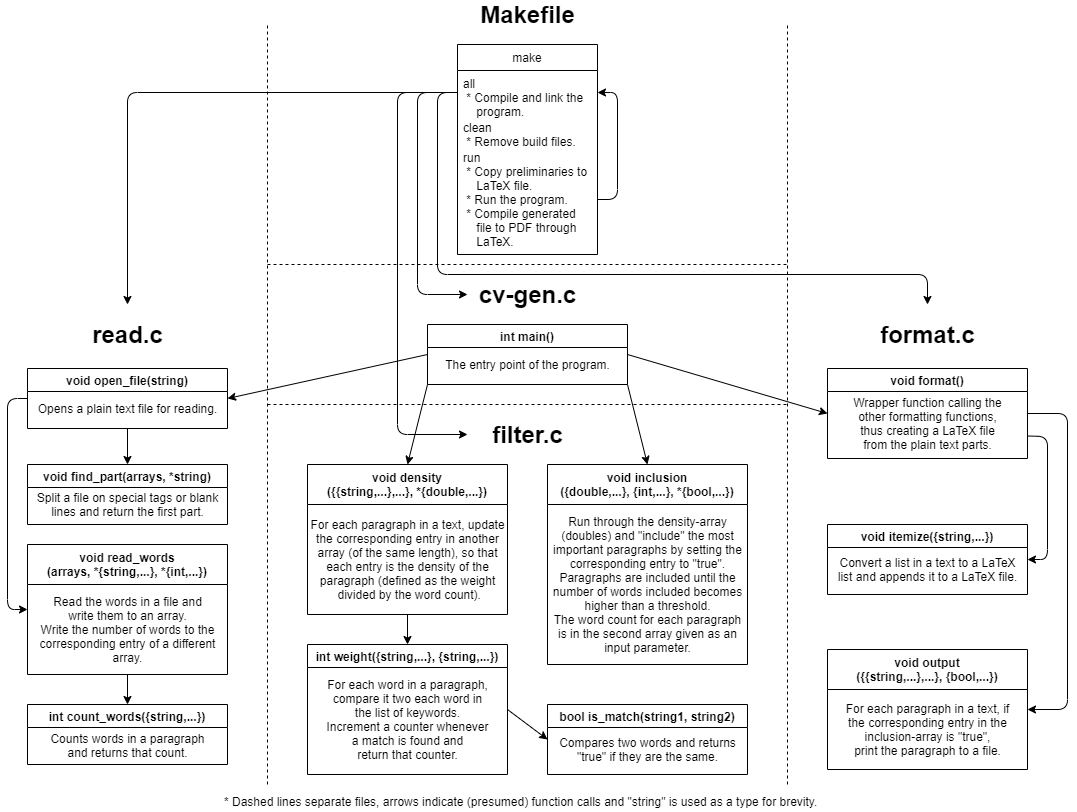
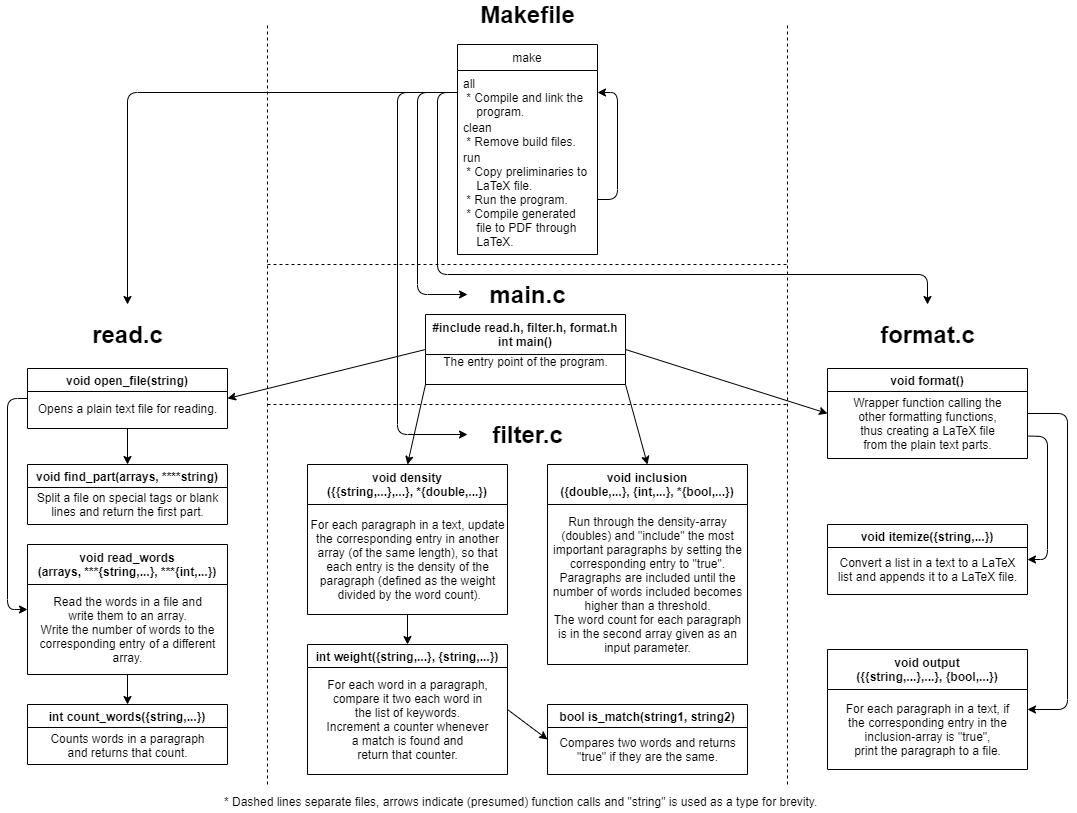
product development

diff --git a/docs/sections/product_development.tex b/docs/sections/product_development.tex
@@ -8,6 +8,7 @@ Here we discussed what are the most essential parts, and came to the conclusion 
 were needed: The Users skills/abilities and the information from the vacant job position. These things
 should be transformed into a custom application. 
 
+
 After further consideration, we had encountered a problem, that generating a custom CV from nothing but
 skills/abilities would create a very childlike, maybe even unreadable, application. This could be solved with a lot
 of data, and therefore a lot of time calibrating the process of automatically creating sentences. This may also result
@@ -32,7 +33,14 @@ and from the structural requirements creates a new CV.
 
 From here we decided to organize our MVP into a UML diagram, to make it more apparent
 what the essential functions were supposed to do, and which functions that were essential:
-\incfigure{figures/UML}{fig: UML}{UML 1.0}
+%\incfigure{figures/UML}{fig: UML}{UML}
+\begin{figure} 
+  \raggedright
+  \hspace*{-1in}
+  \includegraphics[scale = 0.50,left]{figures/UML}
+  \caption{UML}
+\end{figure}
+\newpage
 
 \subsection{Read.c}
 \subsection{Filter.c}
@@ -132,9 +140,9 @@ The overall structure of this functions ends up looking like the following:
 \incfigure{figures/is_word_match}{fig: Is word match}{Word Matching}
 
 The overall structure can be described as this:
-\begin{figure}[h]
+\begin{figure}[H]
   \centering
-  \includegraphics[height=3cm]{figures/is_match}
+  \includegraphics[scale = 0.6]{figures/is_match}
   \caption{Flow diagram of word matching}\label{fig:ie}
 \end{figure}
 
@@ -163,7 +171,7 @@ Printing the result from this, we can see:
 Thus it can easily be seen, which sections may be best suited for the job opening. 
 In this case, an example of a job opening specializing in software.
 
-To demonstrate that the functions work, it can be seen that both line 8 abd 9 gets printet with a result of exactly 1.
+To demonstrate that the functions work, it can be seen that both line 8 and 9 gets printet with a result of exactly 1.
 Even though one of the words match with 2, and the other, though misspelled, also matches with 2.
 
 \subsubsection{Included Sections and Generation}
@@ -196,7 +204,7 @@ This part isn't that interesting, but if you're interested, you can see it here:
 \subsection{Format.c}
 After the CV has been filtered then our next plan is to print the text to a latex format, and afterwords compile it to a pdf 
 
-\subsection{CV-Gen.c}
+\subsection{Main.c}
 \subsection{Makefile}
 
 \subsection{TKOP-model}

diff --git a/docs/sections/experiment_method.tex b/docs/sections/experiment_method.tex
@@ -9,25 +9,29 @@ In order to do this, we have devised the following experiment:
 In the experiment we will create a long CV where all the original information
 is in. We do this to ensure that there is no extra information in the human 
 rewritten CV that our program couldn't have created. In this way, we ensure
-the test is as fair as possible. 
+the test is as fair as possible.
+
+There after the danish job center will be asked, to answer which of the two CV's is most suited
+for the job posting. How this works is as such:
 
 The human will shorten down and create a CV based on the long CV. This CV is
-is gonna be sent to n number of job postings.
+is gonna be compared to n number of job postings.
 Our program, is gonna filter down the long CV, and create a job application,
 for each individual job posting. 
 To ensure, that some job postings don't just have lower requirements, we will be
-sending the new CV applications from both the program and the person to the same 
-job postings each time. In total we will be sending out n number of applications.
-
+comparing the new CV applications from both the program and the person to the same 
+job postings each time. In total we will be comparing out n number of applications.
+\\
 In this way, we can assume that both the human who had rewritten one
 CV and the program, who has rewritten n number of CV's,
-will take about the same amount of time, to send out n CV's.
+will take about the same amount of time, to compare n CV's.
 Therefore we can somewhat ensure the results as a function of effort are gonna
 be fair.
 
-This experiment will compare the results of how many times one gets a job
-interview using one of the two methods: Comparing the amount of 
-job interviews from the qualitatively created CV from
+This experiment will compare the results of how many times one gets a "job
+interview" using one of the two methods: Comparing the amount of 
+"job interviews" (based on what the job center thinks is most likely to earn an interview) 
+from the qualitatively created CV from
 the human, to the quantitatively created CV from the program to
 each other.
 

diff --git a/docs/preliminaries/preamble.tex b/docs/preliminaries/preamble.tex
@@ -4,7 +4,8 @@
 \usepackage[T1]{fontenc}
 \usepackage[utf8]{inputenc}
 \usepackage{babel}\usepackage{csquotes}% Recommended by `biblatex'.
-
+\usepackage[export]{adjustbox}
+\usepackage{float}
 \frenchspacing
 \usepackage{microtype}
 
